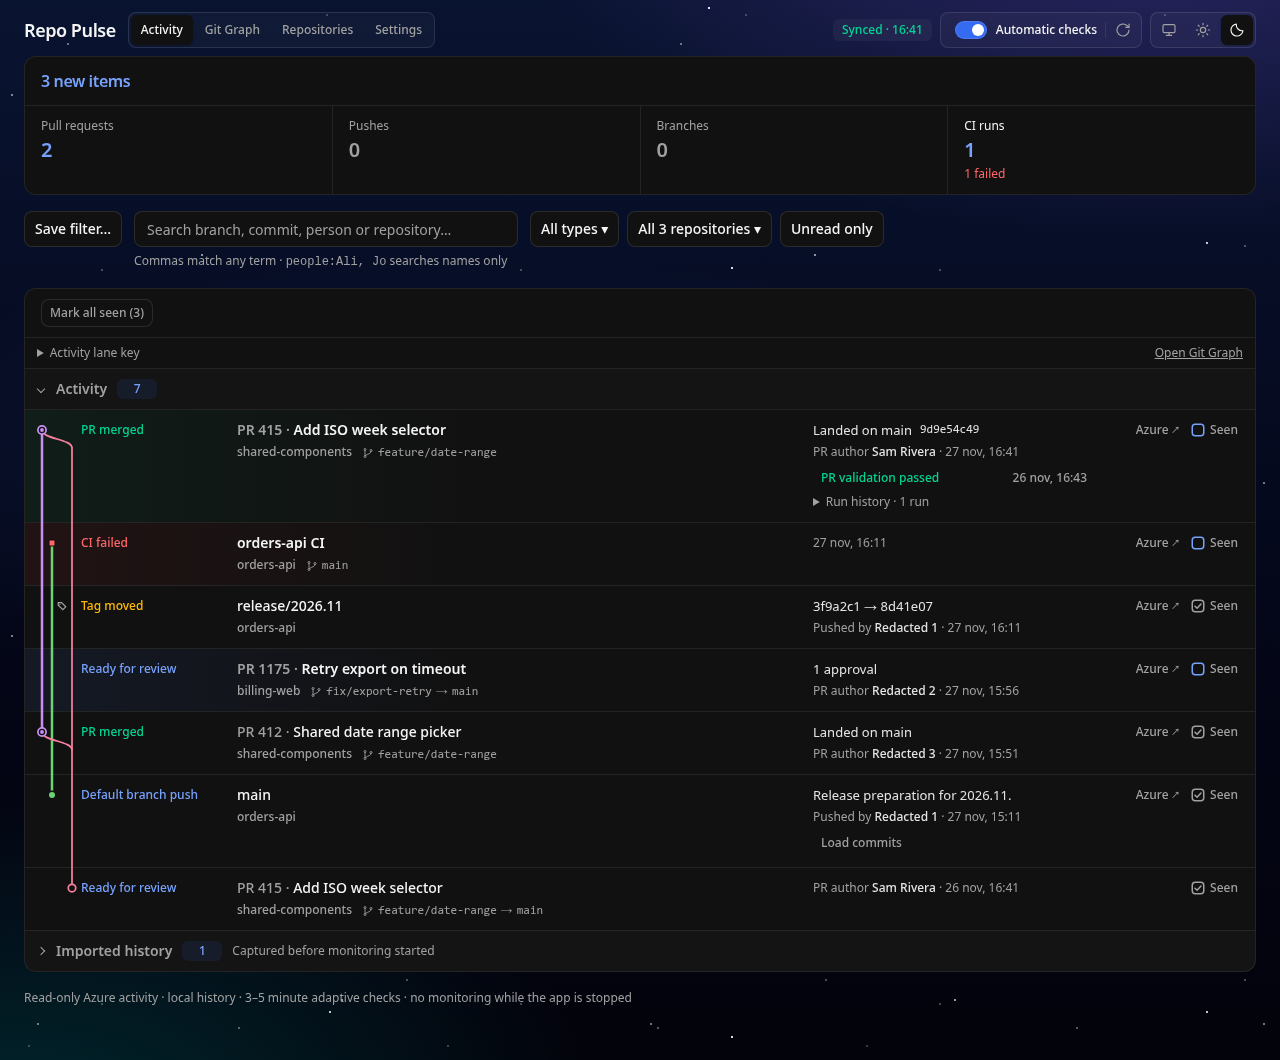
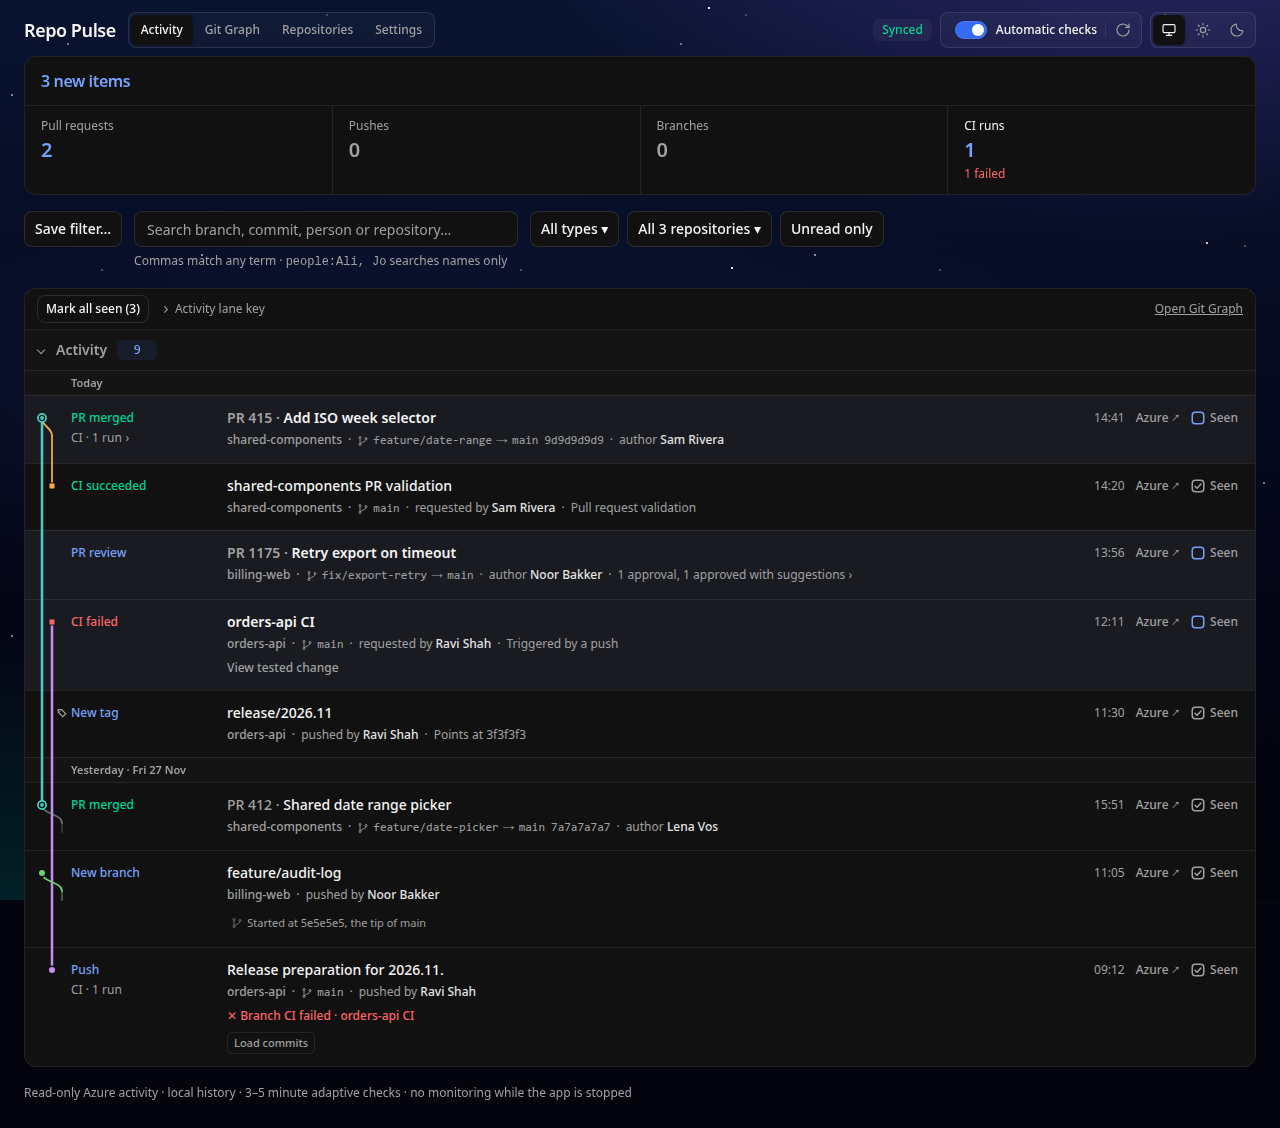
Describe the new Activity rows, retake the README screenshots and archive the redesign plan

diff --git a/docs/archive/activity-redesign-plan.md b/docs/archive/activity-redesign-plan.md
@@ -1,13 +1,15 @@
 # Activity feed redesign: phased plan
 
+Archived on 2026-11-28 with every item done. The row layout is described in [MAINTAINING.md](../MAINTAINING.md#activity-rows).
+
 Source: three council rounds on 2026-11-28 (Claude Fable 5.2 and Gemini 4 Neon) over the owner's screenshot of the Activity feed. Goal from the owner: keep the information, make it read cleanly, with far fewer date and time stamps. Chosen design: "B · Status cell" with the existing lane tree kept intact and CI trouble on its own line (2B). Mockups (scratchpad, not tracked): `design5-round2.html`, `council-fable-r3/b-tree.html`, `council-neon-r3/b-tree.html`.
 
-Every phase leaves `npm run lint`, `npm run check:types`, `npm test` and `npm run test:ui` green. A behaviour change gets a test that fails first. One PR per phase, merged before the next starts. Per [MAINTAINING.md](MAINTAINING.md#match-review-to-risk), the layout phases get CI and one review round. The server phase gets the same, because `server/activity-ci-summary.ts` is not on the full-review list.
+Every phase leaves `npm run lint`, `npm run check:types`, `npm test` and `npm run test:ui` green. A behaviour change gets a test that fails first. One PR per phase, merged before the next starts. Per [MAINTAINING.md](../MAINTAINING.md#match-review-to-risk), the layout phases get CI and one review round. The server phase gets the same, because `server/activity-ci-summary.ts` is not on the full-review list.
 
 ## Decisions
 
 - [x] D1 Usage period conflict. Decided 2026-11-28: start now. The owner asked for implementation with full send; the redesign is an agreed exception to the no-polish rule.
-  Original question: [BACKLOG.md](BACKLOG.md#usage-period) says the usage period (until 2026-12-07) fixes bugs and adds no new polish, and this plan is polish. The owner must confirm either "start now" or "start after 2026-12-07", and the answer is recorded here.
+  Original question: [BACKLOG.md](../BACKLOG.md#usage-period) says the usage period (until 2026-12-07) fixes bugs and adds no new polish, and this plan is polish. The owner must confirm either "start now" or "start after 2026-12-07", and the answer is recorded here.
 - [x] D2 Representative row (accepted 2026-11-28 as proposed), agreed before coding per the working agreement. It is PR 21935 merged with three runs, which becomes:
   - left cell: `PR merged` / `CI · 3 runs ›`;
   - line 1: `PR 21935 · DAT-12014: run only the critical tests in the ADF dbt run`;
@@ -97,10 +99,10 @@ Every phase leaves `npm run lint`, `npm run check:types`, `npm test` and `npm ru
 
 ## Phase 5: Verify and close
 
-- [ ] 5.1 Screenshots of the new feed in `test-results/activity-redesign/after/`, at the same set as 0.2, compared side by side in the last PR. Check: the owner reviews the comparison.
-- [ ] 5.2 One run on a `VACUUM INTO` copy of the live database in the scratchpad, at 1265px, with the copy deleted afterwards. Check: count timestamps on the first screen against the 13 of the owner's screenshot, and read the rows for clipped or missing pieces.
-- [ ] 5.3 `docs/MAINTAINING.md` describes the row layout and the day headers. `docs/BACKLOG.md` drops this item. This plan moves to `docs/archive/`. Check: the link probe finds 0 broken links.
-- [ ] 5.4 The README screenshots (`docs/screenshots/activity-light.png` and `activity-dark.png`, 1280px demo) are retaken with the new feed, plus `pr-detail-*` if the detail page changed. Check: the README images show day headers and the new row, viewed in both themes.
+- [x] 5.1 Screenshots of the new feed in `test-results/activity-redesign/after/`, at the same set as 0.2, compared side by side in the last PR. Check: the owner reviews the comparison. Done 2026-11-28: the demo at 360, 640, 1100 and 1265px in both themes is in `test-results/activity-redesign/after/`, next to `before/`. The owner's review of the comparison is requested in the final report of the last PR.
+- [x] 5.2 One run on a `VACUUM INTO` copy of the live database in the scratchpad, at 1265px, with the copy deleted afterwards. Check: count timestamps on the first screen against the 13 of the owner's screenshot, and read the rows for clipped or missing pieces. Done 2026-11-28: on a copy of the live database at 1265px, the first screen shows 8 clock-only times under the Today and Yesterday headers, against the 13 dated ones in the owner's screenshot. The page has no horizontal scroll, and PR 21935 reads as D2 describes. The copy was deleted.
+- [x] 5.3 `docs/MAINTAINING.md` describes the row layout and the day headers. `docs/BACKLOG.md` drops this item. This plan moves to `docs/archive/`. Check: the link probe finds 0 broken links. Done 2026-11-28: `docs/MAINTAINING.md` has an Activity rows section, the backlog item is removed, and this plan is archived.
+- [x] 5.4 The README screenshots (`docs/screenshots/activity-light.png` and `activity-dark.png`, 1280px demo) are retaken with the new feed, plus `pr-detail-*` if the detail page changed. Check: the README images show day headers and the new row, viewed in both themes. Done 2026-11-28: `activity-light.png` and `activity-dark.png` were retaken at 1280px from a fictional two-day feed (en-GB, demo banner hidden), and the README alt text was updated. The detail page did not change, so `pr-detail-*` stays.
 
 ## Not doing
 

diff --git a/docs/MAINTAINING.md b/docs/MAINTAINING.md
@@ -54,6 +54,20 @@ Use the shared `.btn`, `.control`, `.ghost`, and `.search` classes. Choose one s
 
 Media queries use three shared breakpoints, documented at the top of `tokens.css`: 640 px (the phone layout), 768 px (touch-sized controls) and 1100 px (the wide feed), plus 360 px for the narrowest phones. Write `min-width: N` and `max-width: N - 1px`. Scripts that follow the layout breakpoint read it from [src/ui/breakpoints.ts](../src/ui/breakpoints.ts), never a literal. A width that fits one component's content stays in that component's file, and `tokens.css` lists it.
 
+## Activity rows
+
+An Activity row has three cells from 1100 px; [src/ui/feed.ts](../src/ui/feed.ts) builds them and `feed.css` lays them out.
+
+- **Status:** the kind label, then `CI · N runs ›`, which opens the run list. A recovered run adds `✓ again` on the same line, so the cell stays at two lines.
+- **Main:**
+  - the title;
+  - line 2, quiet facts in a fixed order: repository (only when several are shown), `branch → target sha`, `author X` / `pushed by X` / `requested by X`, then the summary or vote tally;
+  - a trouble line for any failing, running, partially succeeded or stale CI result, naming each pipeline when there are several;
+  - line 3, tokens in a fixed order: updates, linked push or tag build, fork or branch-start note, Load commits. It is left out when empty.
+- **Right:** the clock time, Azure and Seen. A row without Azure or Seen keeps an invisible copy, so times line up.
+
+Colour belongs to the kind label and to trouble; passing CI and approvals stay muted. Row tints are flat colours in `--row-bg`, which the lane tree's ring cutouts use too. Unread is a blue tint and a bold title, and it wins over the failed tint. Only the phone layout adds an unread bar, because a bar beside the tree reads as another lane. Each local day starts with an `li.day` header that draws the lanes entering the row below it (`renderTreePassThrough`), so lanes never break. Headers are not sticky and never count as rows, and an idle tab re-renders them after midnight.
+
 ## Local Git actions
 
 Branch switches verify the destination ref, its fetch mapping, and the linked Git directory. Tracking-ref updates check the expected old value, and Repo Pulse checks the type of each ref while Git holds its transaction lock. For a confirmed rewrite, Repo Pulse writes and verifies recovery refs under `refs/repo-pulse/upstream-rewrites/` before updating the tracker. Later checks can use those refs to detect the rewrite on other local branches tracking the same upstream, including branches in linked worktrees. Git handles the worktree switch separately.

diff --git a/docs/BACKLOG.md b/docs/BACKLOG.md
@@ -25,10 +25,6 @@ From the [improvement plan](archive/IMPROVEMENT-PLAN.md#phase-3-working-agreemen
 
 Approved on 2026-11-27 after a council review at `a0c73ea`. Phases 0 and 1 (user-visible bug fixes and mechanical hygiene), phase 2 (server boundary and one contract), phase 3 (browser shell: route controllers, page state in `ui`, one action dispatcher, one menu manager, a dialog helper, and typed navigation and state), phase 4 (server internals: the store split, `server/git.ts` with one checkout context, typed Azure reads, PR and build reconciliation out of `server/sync.ts`, and per-repository settings keys owned by the store) and phase 5 (presentation, naming and tests: stylesheets split with shared tokens and documented breakpoints, stable Git Graph status IDs, identifier renames, a split sync test with shared fixtures and `testApp()`, and `npm run test:fast`) are done. All phases of the architecture refactor are done.
 
-## Activity feed redesign
-
-Planned on 2026-11-28 after three council rounds: [activity-redesign-plan.md](activity-redesign-plan.md). Started 2026-11-28 as an agreed exception to the usage period's no-polish rule (decision D1).
-
 ## When the code is next touched
 
 From the [post-migration plan](archive/post-migration-plan.md#when-the-code-is-next-touched). Do each one as part of a change that already touches the code, not on its own.

diff --git a/README.md b/README.md
@@ -9,7 +9,7 @@ A local Azure DevOps activity feed for testers. Watch multiple repositories for 
 
 <picture>
   <source media="(prefers-color-scheme: dark)" srcset="docs/screenshots/activity-dark.png">
-  <img src="docs/screenshots/activity-light.png" alt="Repo Pulse Activity highlights with branch lanes, merged pull requests, and CI results.">
+  <img src="docs/screenshots/activity-light.png" alt="Repo Pulse Activity with day headers, branch lanes, merged pull requests, review votes and CI results.">
 </picture>
 
 | Screen       | Light mode                                      | Dark mode                                     |
